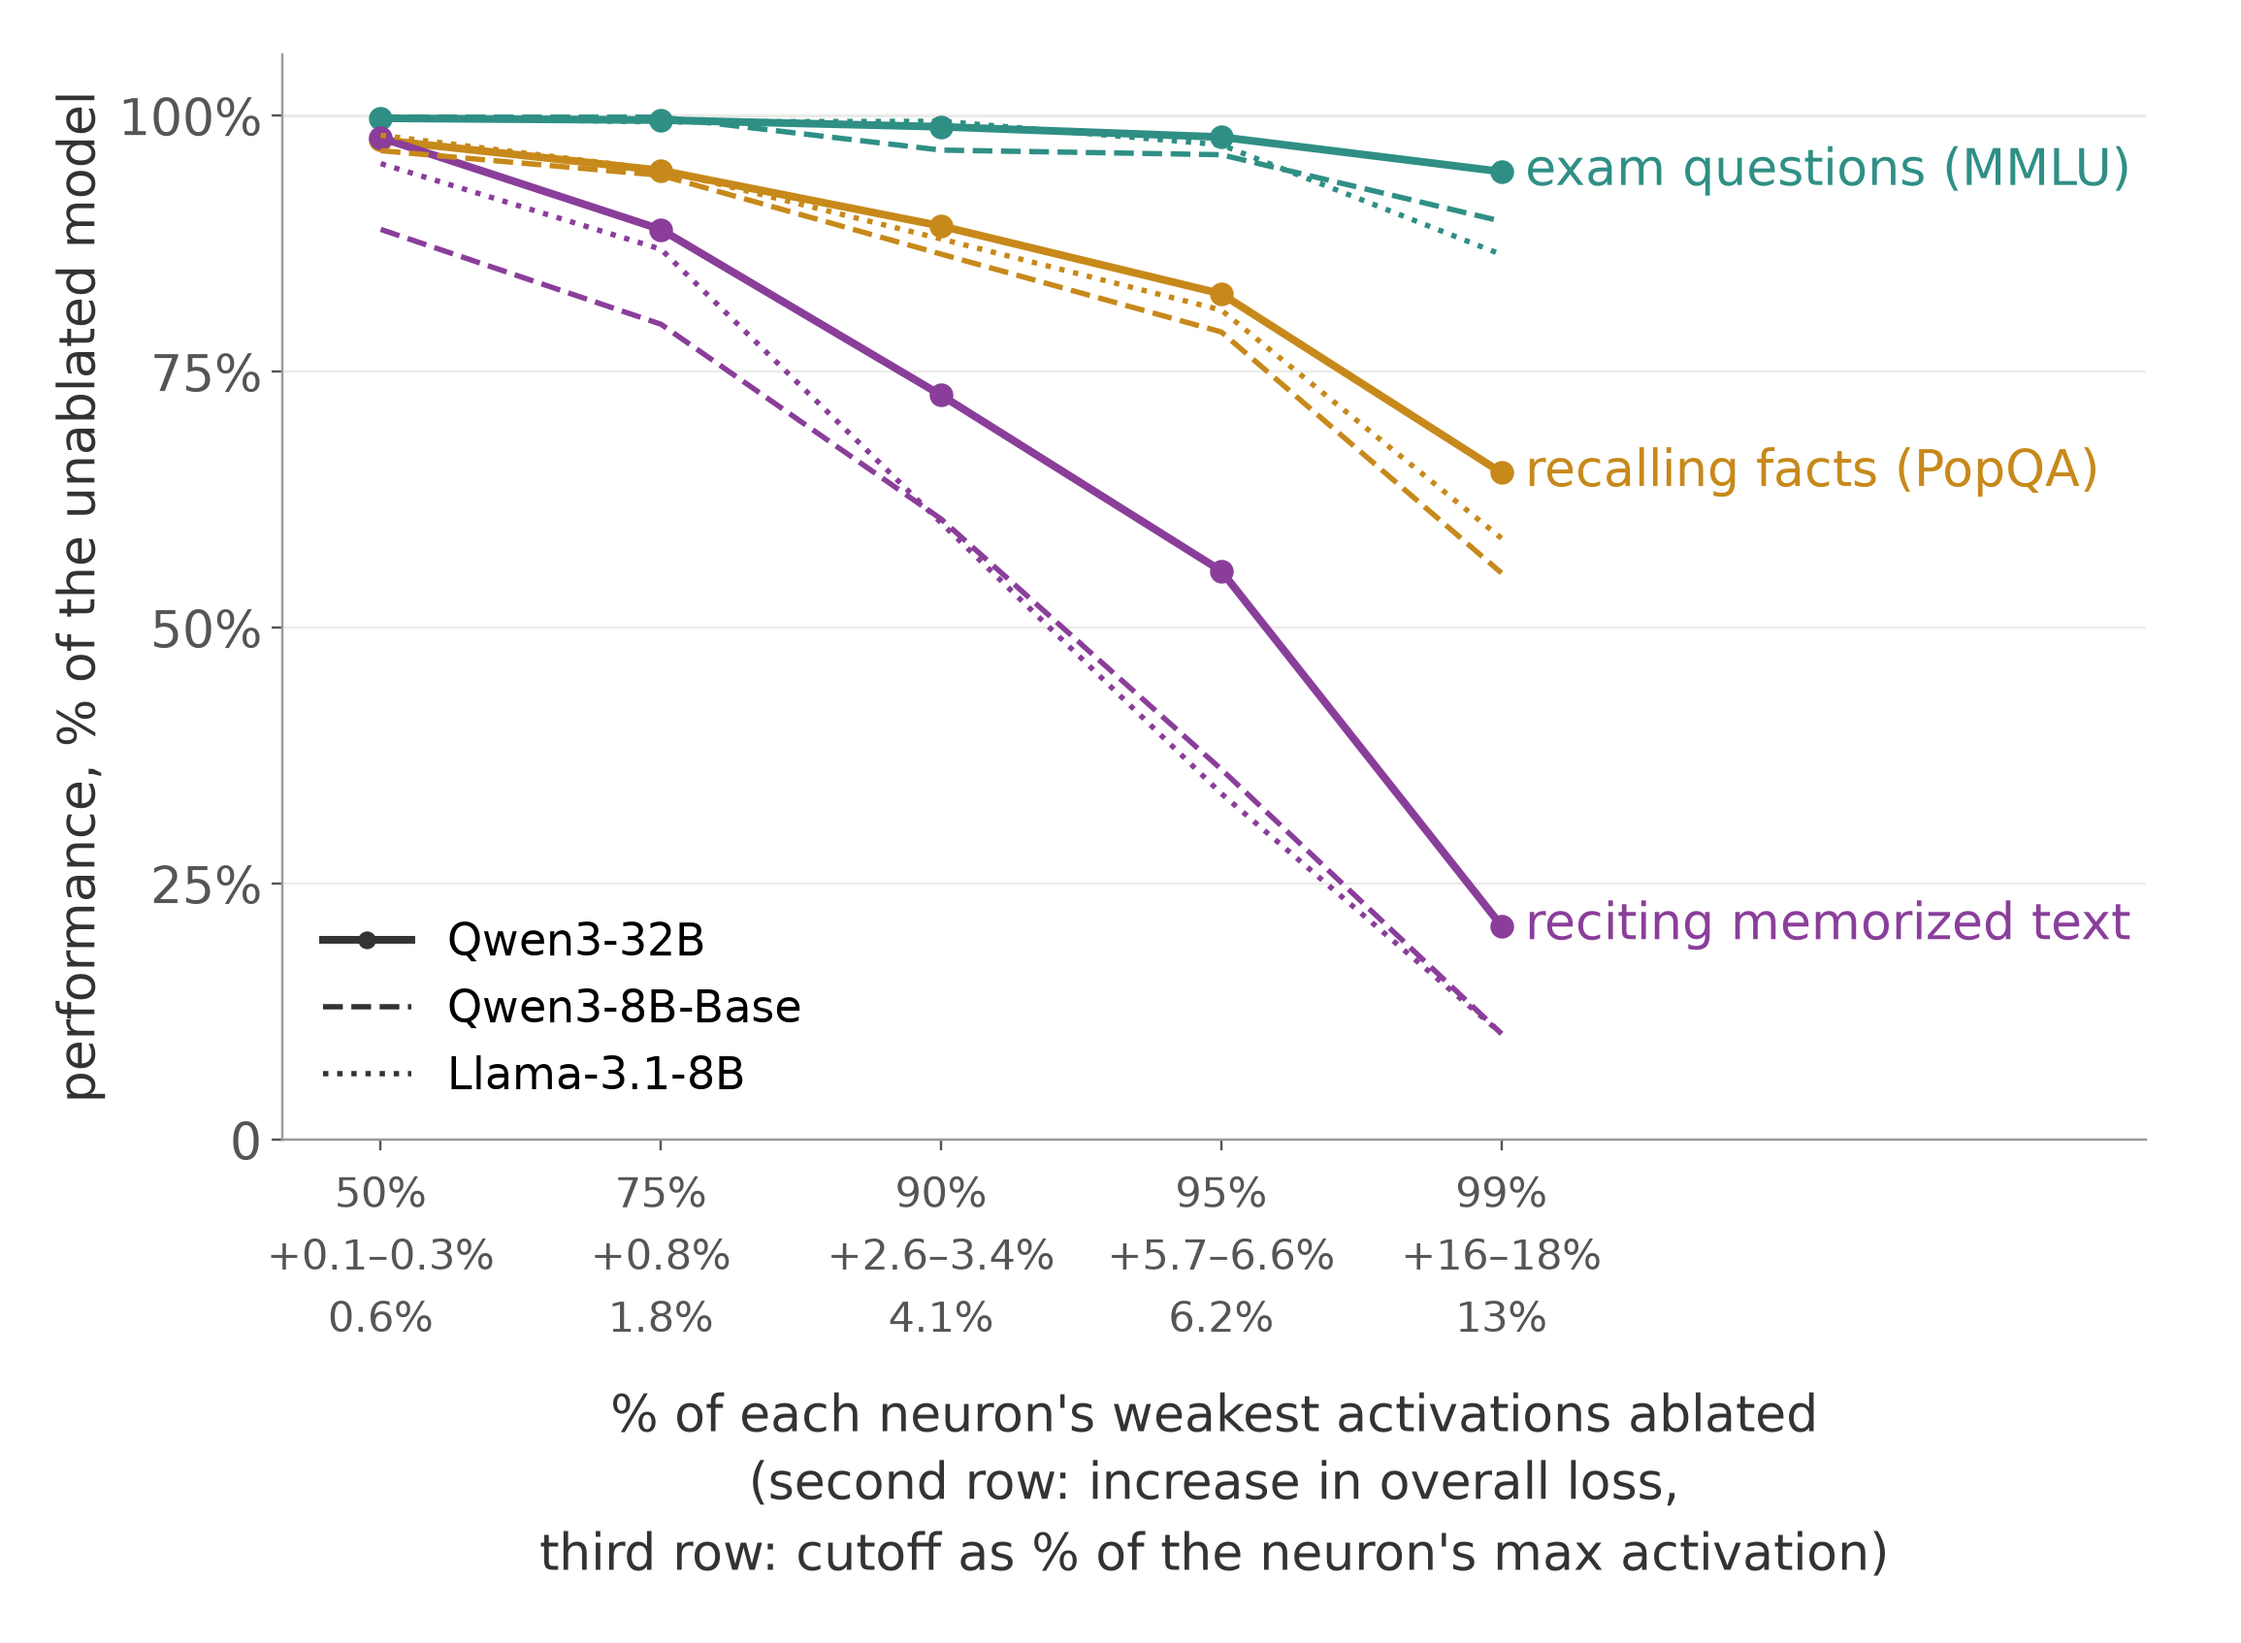
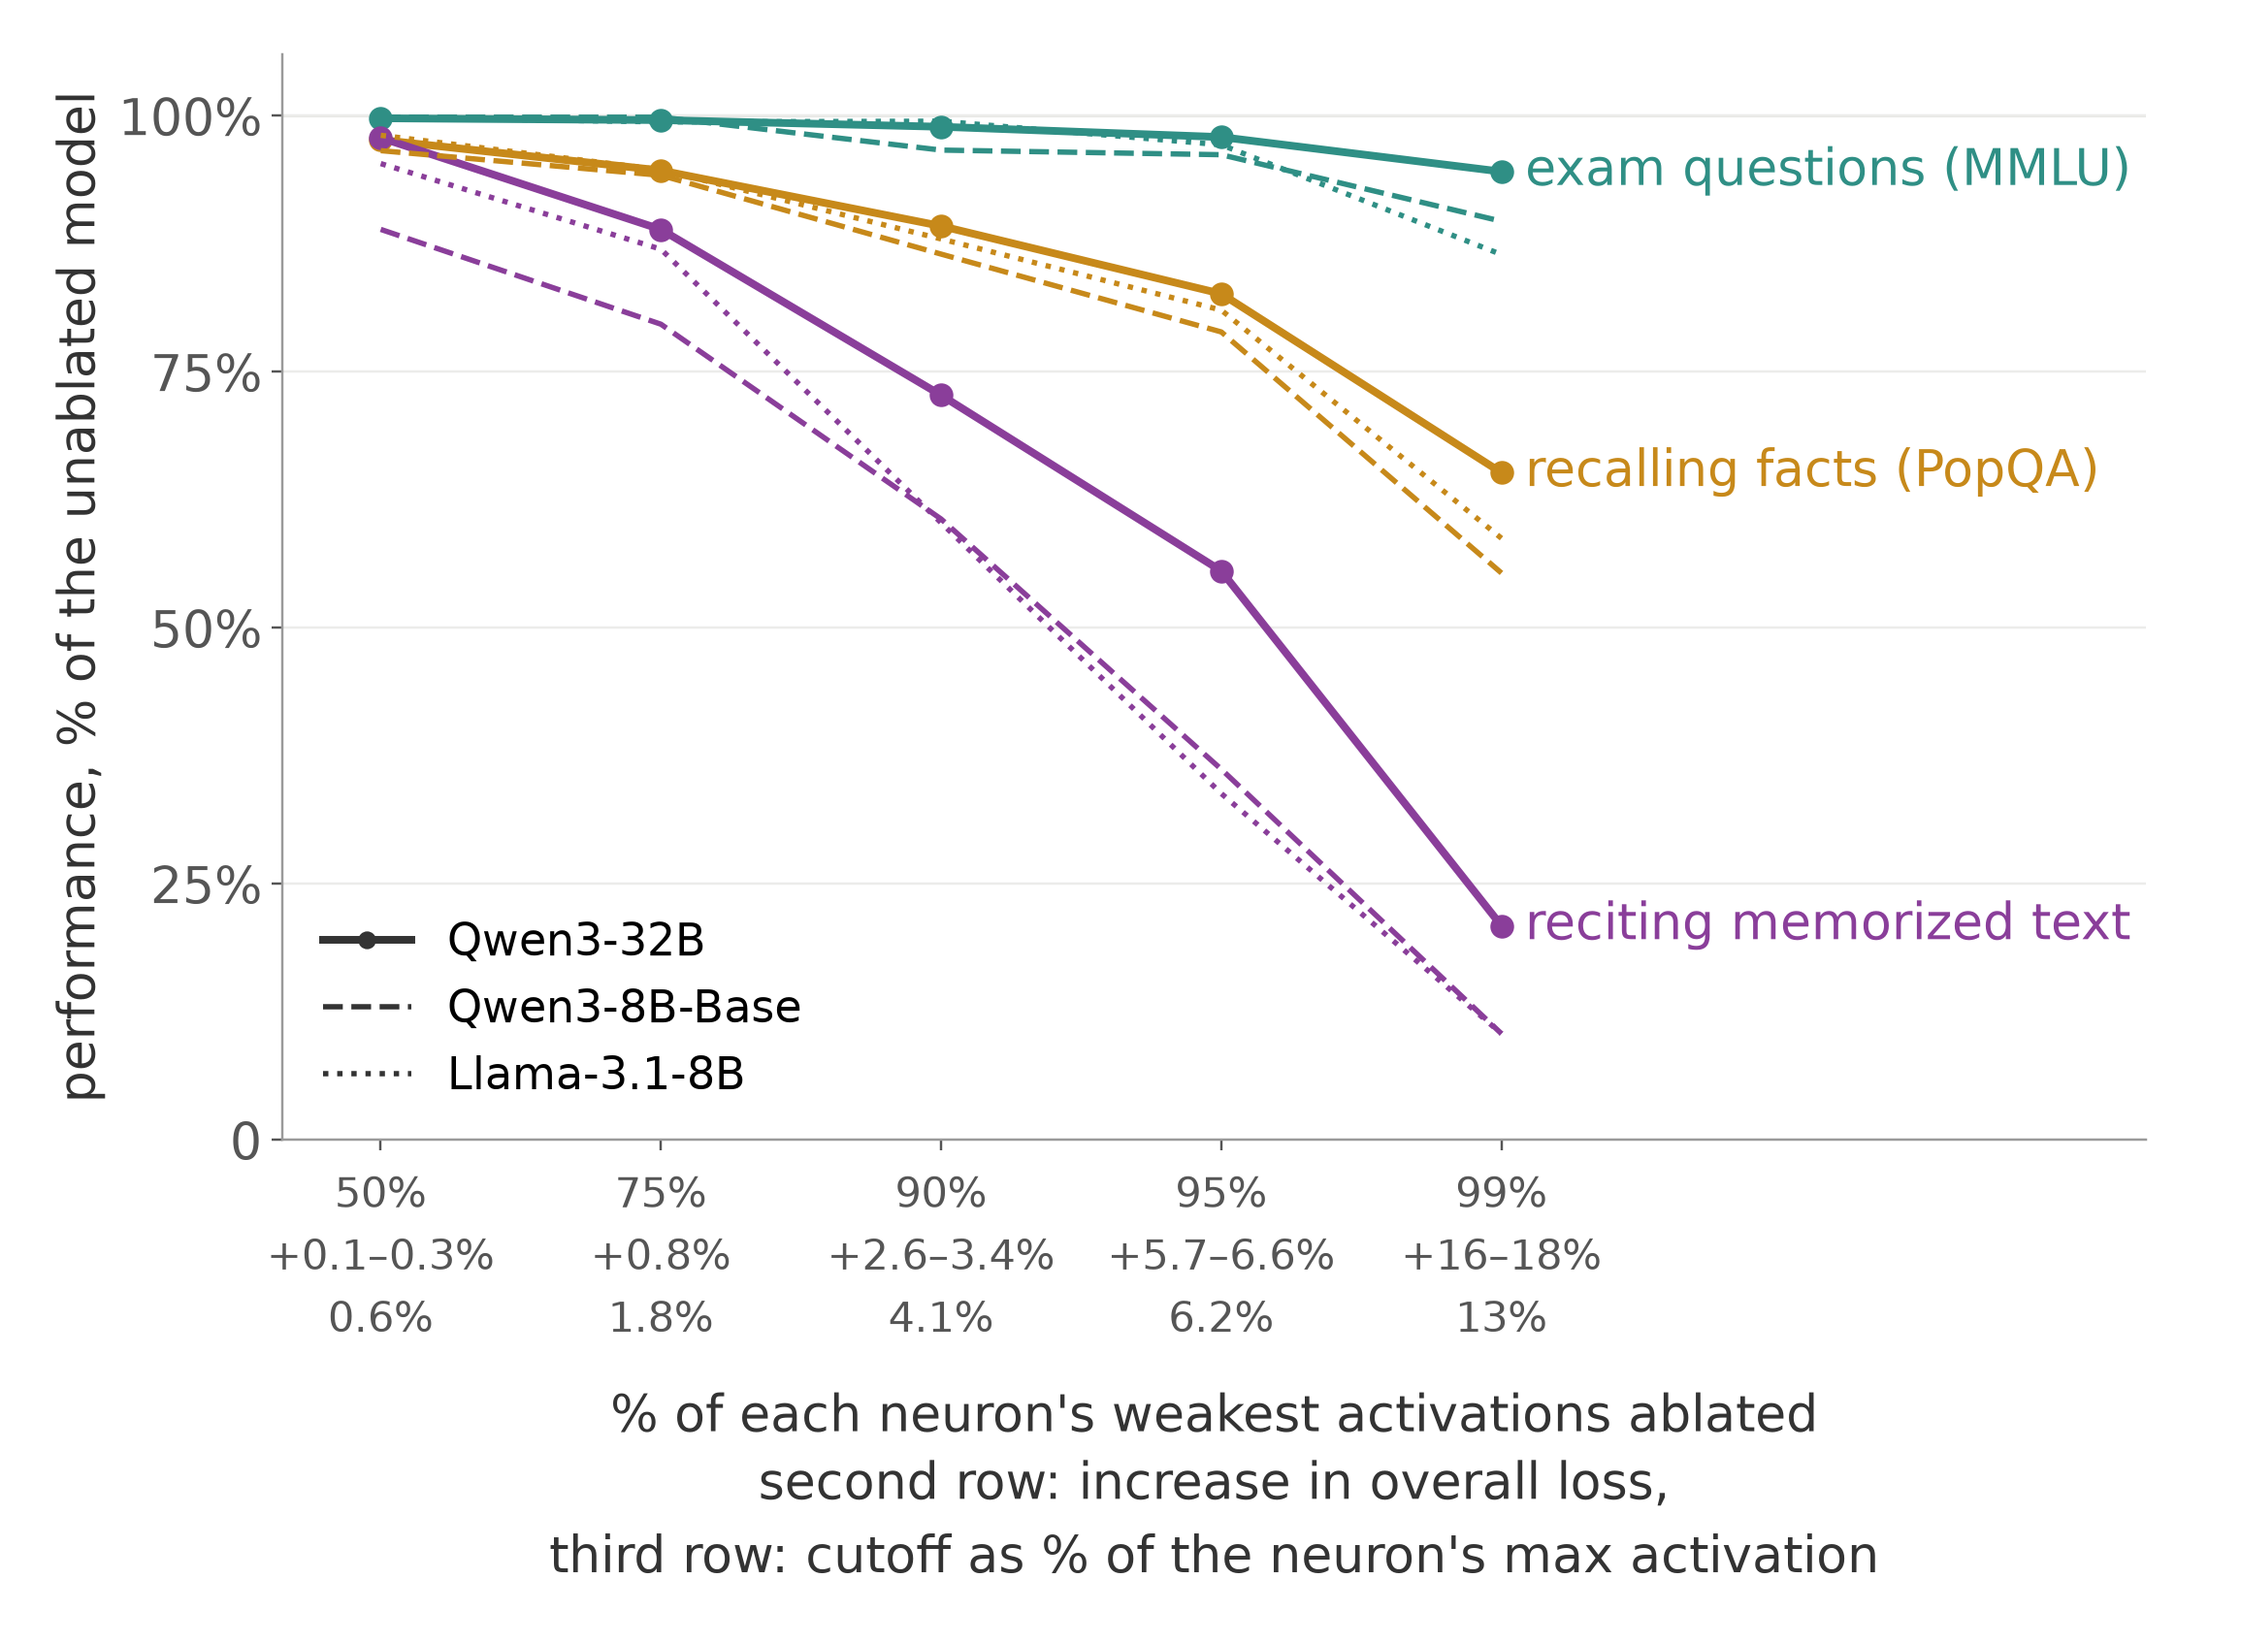
Tweet figure: x-axis row notes without parentheses

Changed region(s): [[0.2494, 0.8902, 0.8416, 0.9823]]

diff --git a/src/fig_tweet_all.py b/src/fig_tweet_all.py
@@ -48,7 +48,7 @@ if THR:
 ax.set_xticks(x); ax.set_xticklabels(labels, fontsize=14 if (LOSS or THR) else 15.5, linespacing=1.5)
 ax.set_xlim(-0.35, len(qs) - 0.6 + 1.9); ax.set_ylim(0, 106); ax.set_yticks([0, 25, 50, 75, 100]); ax.set_yticklabels(['0', '25%', '50%', '75%', '100%'])
 rows_note = [n for n, on in [('increase in overall loss', LOSS), ("cutoff as % of the neuron's max activation", THR)] if on]
-note = '' if not rows_note else ('\n(second row: ' + rows_note[0] + ')' if len(rows_note) == 1 else '\n(second row: ' + rows_note[0] + ',\nthird row: ' + rows_note[1] + ')')
+note = '' if not rows_note else ('\nsecond row: ' + rows_note[0] if len(rows_note) == 1 else '\nsecond row: ' + rows_note[0] + ',\nthird row: ' + rows_note[1])
 ax.set_xlabel("% of each neuron's weakest activations ablated" + note, labelpad=10, linespacing=1.4); ax.set_ylabel('performance, % of the unablated model')
 ax.grid(axis='y', color='#ececea')
 ax.legend(handles=[Line2D([], [], color=INK, ls=ls, lw=lw, marker='o' if ls == '-' else None, ms=5, label=m) for _, m, ls, lw in MODELS], frameon=False, loc='lower left', fontsize=15)
